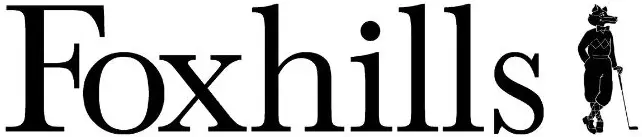
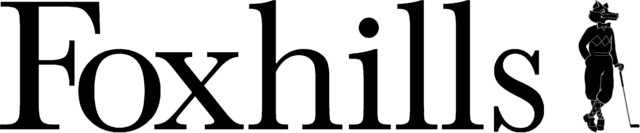
Trust + USP polish; new local-prose section between gallery and process
Trust block
- New transparent Foxhills logo wired in (dropped the white-bg
  version the user replaced); trim the new PNG, resize to 640 wide,
  webp-encode (37kb -> 11kb)
- Per-logo bounding-box height tuning so the row reads as visually
  equal weight: P&G h-12 md:h-[56px] (stacked, needs more height),
  The Range and Foxhills h-7 md:h-8 (horizontal wordmarks). Drop
  opacity-80 — full opacity reads more confident, especially for
  The Range's colour mark
- Drop the "Recent celebrations across Surrey and Sussex" subline
  under "Kind words." per request; tightens gap above the cards

USP strip
- Centre the "WHY RIVER FOX" eyebrow over the 4 columns; columns
  themselves stay left-aligned with icons above text. Matches the
  centred section-header pattern used elsewhere on the page

New section: LocationLocalProse
- Renders between gallery and "How it works"; only mounts when a
  location supplies bespoke uniqueLocalProse copy
- Eyebrow + centred H2 + a left-aligned readable column of body
  prose (max-w-680px). Designed as a structural template — the
  copy MUST be rewritten per location, never templated, to avoid
  near-duplicate-doorway penalties
- Oxted copy added per spec: "Local knowledge, properly used." with
  three paragraphs covering at-home rhythm, A25/M25 J6 logistics,
  and the discovery-to-breakdown handoff

https://claude.ai/code/session_01ScL4fkX7f7d1TtxWKXrAs3

diff --git a/src/components/rfx/LocationTrust.tsx b/src/components/rfx/LocationTrust.tsx
@@ -3,10 +3,36 @@ import logoPg from "@/assets/client-pg.webp";
 import logoTheRange from "@/assets/client-the-range.png";
 import logoFoxhills from "@/assets/client-foxhills.webp";
 
+/**
+ * Logos sit at different bounding-box heights on purpose. P&G is a
+ * stacked mark with a 2.3:1 ratio; The Range and Foxhills are
+ * horizontal wordmarks at ~4.7:1. Rendering all three at one common
+ * height makes P&G look small and lonely. Per-logo heights below are
+ * tuned so the marks read as visually equal in weight on the row.
+ */
 const CLIENT_LOGOS = [
-  { src: logoPg, alt: "P&G", width: 600, height: 260 },
-  { src: logoTheRange, alt: "The Range", width: 357, height: 76 },
-  { src: logoFoxhills, alt: "Foxhills", width: 642, height: 137 },
+  {
+    src: logoPg,
+    alt: "P&G",
+    width: 600,
+    height: 260,
+    // ~48px → 56px tall; widest end gives the stacked mark proper presence
+    sizeClass: "h-12 md:h-[56px]",
+  },
+  {
+    src: logoTheRange,
+    alt: "The Range",
+    width: 357,
+    height: 76,
+    sizeClass: "h-7 md:h-8",
+  },
+  {
+    src: logoFoxhills,
+    alt: "Foxhills",
+    width: 640,
+    height: 133,
+    sizeClass: "h-7 md:h-8",
+  },
 ];
 
 const Stars = () => (
@@ -36,9 +62,6 @@ const LocationTrust = () => {
           >
             Kind <em className="italic font-light text-accent-warm">words.</em>
           </h2>
-          <p className="mt-4 text-[14px] text-ink-soft font-mono-rf tracking-[0.18em] uppercase">
-            Recent celebrations across Surrey and Sussex
-          </p>
         </div>
 
         <div className="grid grid-cols-1 lg:grid-cols-3 gap-6 px-2 sm:px-8 md:px-16 lg:px-0">
@@ -59,7 +82,7 @@ const LocationTrust = () => {
             Recent clients include
           </p>
           <ul
-            className="mt-8 flex flex-wrap items-center justify-center gap-x-12 gap-y-6 md:gap-x-20 list-none p-0 m-0"
+            className="mt-8 flex flex-wrap items-center justify-center gap-x-14 gap-y-8 md:gap-x-24 list-none p-0 m-0"
             aria-label="Recent clients"
           >
             {CLIENT_LOGOS.map((c) => (
@@ -71,7 +94,7 @@ const LocationTrust = () => {
                   height={c.height}
                   loading="lazy"
                   decoding="async"
-                  className="block h-9 md:h-10 w-auto opacity-80"
+                  className={`block w-auto ${c.sizeClass}`}
                 />
               </li>
             ))}

diff --git a/src/data/locations/oxted.tsx b/src/data/locations/oxted.tsx
@@ -64,6 +64,40 @@ const oxted = makeLocation({
       </p>
     </>
   ),
+  uniqueLocalProse: {
+    eyebrow: "STYLING IN OXTED",
+    heading: (
+      <>
+        Local knowledge,{" "}
+        <em className="italic font-light text-accent-warm">properly used.</em>
+      </>
+    ),
+    body: (
+      <>
+        <p>
+          Oxted celebrations have a specific rhythm to them. Many take place at
+          home — across Limpsfield, Hurst Green, Tandridge and the surrounding
+          villages — where the room is the canvas and the styling has to feel
+          like it belongs in your space, not imposed on it. Others move to
+          local venues like the village halls, country clubs or private
+          gardens that East Surrey does so well.
+        </p>
+        <p>
+          Either way, the practical bit matters. We're a short drive from
+          Oxted along the A25, with easy access via M25 J6, which means
+          same-day install, late-finish events, and Sunday morning breakdowns
+          are all comfortable rather than logistically tight. The same goes
+          for Limpsfield, Hurst Green, Tandridge, Godstone and Caterham.
+        </p>
+        <p>
+          Most Oxted families come to us with a Pinterest board, a date, and a
+          feeling. From there, we shape the rest — palette, installations,
+          tablescape, signage, breakdown. Calmly, considerately, and
+          personally.
+        </p>
+      </>
+    ),
+  },
   uniquePresenceAnswer:
     "Yes — Oxted is part of our regular East Surrey coverage, along with Limpsfield, Hurst Green, Tandridge, Godstone and the surrounding villages. Whether your celebration is at home, at Titsey Place or somewhere else in the area, mention the venue or postcode in your enquiry and we'll come back with a proposal designed for your space.",
   uniqueExtraFaqs: [

diff --git a/src/components/rfx/LocationLocalProse.tsx b/src/components/rfx/LocationLocalProse.tsx
@@ -1,0 +1,56 @@
+import type { ReactNode } from "react";
+
+type LocationLocalProseProps = {
+  eyebrow: string;
+  heading: ReactNode;
+  body: ReactNode;
+  headingId?: string;
+};
+
+const LocationLocalProse = ({
+  eyebrow,
+  heading,
+  body,
+  headingId = "loc-local-prose-heading",
+}: LocationLocalProseProps) => {
+  return (
+    <section
+      id="local-prose"
+      className="rfx-section"
+      aria-labelledby={headingId}
+    >
+      <div className="container-rfx">
+        <div className="text-center max-w-[760px] mx-auto mb-10 md:mb-12 fade-up">
+          <p
+            className="font-mono-rf text-[10.5px] tracking-[0.28em] uppercase text-ink-soft mb-5"
+            style={{ fontWeight: 600 }}
+          >
+            {eyebrow}
+          </p>
+          <h2
+            id={headingId}
+            className="font-serif-rf"
+            style={{
+              fontSize: "clamp(36px, 3.8vw, 60px)",
+              lineHeight: 1.05,
+              fontWeight: 400,
+              letterSpacing: "-0.025em",
+              textWrap: "balance",
+            }}
+          >
+            {heading}
+          </h2>
+        </div>
+
+        <div
+          className="max-w-[680px] mx-auto text-[16px] md:text-[17px] leading-[1.75] text-ink-soft space-y-5 md:space-y-6 fade-up"
+          style={{ textWrap: "pretty" }}
+        >
+          {body}
+        </div>
+      </div>
+    </section>
+  );
+};
+
+export default LocationLocalProse;

diff --git a/src/data/locations/_makeLocation.tsx b/src/data/locations/_makeLocation.tsx
@@ -69,6 +69,10 @@ type LocationInput = {
   /** Multiple extra Q&As inserted after the standard set. Renders after
    *  uniqueExtraFaq if both are provided. */
   uniqueExtraFaqs?: { q: string; a: string }[];
+  /** Bespoke local-prose section rendered between the gallery and
+   *  "How it works". Must be written per location — three short
+   *  paragraphs referencing real local entities. Never copy-paste. */
+  uniqueLocalProse?: LocationConfig["localProse"];
 };
 
 export function makeLocation(input: LocationInput): LocationConfig {
@@ -93,6 +97,7 @@ export function makeLocation(input: LocationInput): LocationConfig {
     uniqueLeadTimeAnswer,
     uniqueExtraFaq,
     uniqueExtraFaqs,
+    uniqueLocalProse,
   } = input;
 
   const villagesIntro = nearbyVillages.slice(0, 3).join(", ");
@@ -283,6 +288,7 @@ export function makeLocation(input: LocationInput): LocationConfig {
       footnote:
         "All pricing is indicative — every proposal is bespoke.",
     },
+    localProse: uniqueLocalProse,
     faqs: [
       {
         q: `Do you style events in ${cityName}?`,

diff --git a/src/pages/LocationPage.tsx b/src/pages/LocationPage.tsx
@@ -11,6 +11,7 @@ import ServicesCards from "@/components/rfx/ServicesCards";
 import LocationGallery from "@/components/rfx/LocationGallery";
 import LocationUSP from "@/components/rfx/LocationUSP";
 import LocationTrust from "@/components/rfx/LocationTrust";
+import LocationLocalProse from "@/components/rfx/LocationLocalProse";
 import ScrollStrip from "@/components/rfx/ScrollStrip";
 import LocationHeroFan from "@/components/rfx/LocationHeroFan";
 import NotFound from "./NotFound";
@@ -183,6 +184,15 @@ const LocationPage = () => {
           mainImageAlt={loc.gallery.mainImageAlt}
           images={loc.gallery.images}
         />
+
+        {loc.localProse && (
+          <LocationLocalProse
+            eyebrow={loc.localProse.eyebrow}
+            heading={loc.localProse.heading}
+            body={loc.localProse.body}
+            headingId={`loc-${loc.slug}-local-prose-heading`}
+          />
+        )}
 
         <div id="how-it-works">
           <Process />

diff --git a/src/data/locations/types.ts b/src/data/locations/types.ts
@@ -50,6 +50,15 @@ export type LocationConfig = {
     tiers: PricingTier[];
     footnote: string;
   };
+  /** Optional bespoke local-prose section between gallery and "How it
+   *  works". Three short paragraphs of locally-specific copy used for
+   *  SEO weight and to convince a reader that we genuinely know the
+   *  area. Must be rewritten per location — never templated. */
+  localProse?: {
+    eyebrow: string;
+    heading: ReactNode;
+    body: ReactNode;
+  };
   faqs: LocationFAQ[];
   nearby: {
     eyebrow: string;

diff --git a/src/components/rfx/LocationUSP.tsx b/src/components/rfx/LocationUSP.tsx
@@ -36,7 +36,7 @@ const LocationUSP = () => {
     >
       <div className="container-rfx">
         <div
-          className="font-mono-rf text-[10.5px] tracking-[0.28em] uppercase text-ink-soft mb-8"
+          className="font-mono-rf text-[10.5px] tracking-[0.28em] uppercase text-ink-soft mb-10 md:mb-12 text-center"
           style={{ fontWeight: 600 }}
         >
           Why River Fox
